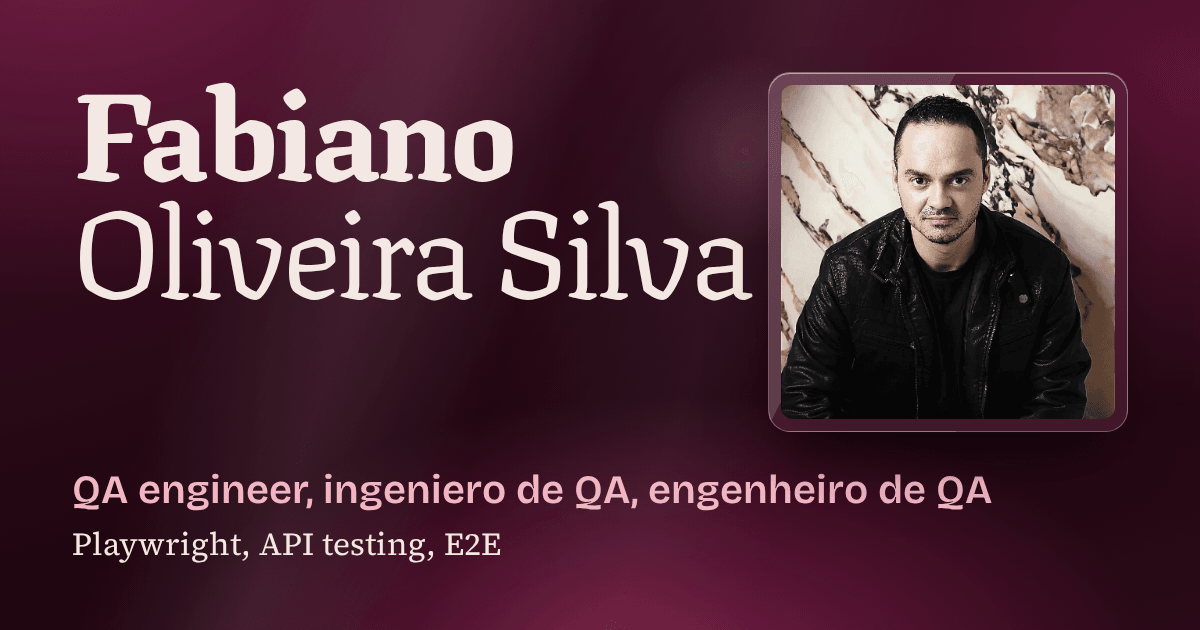
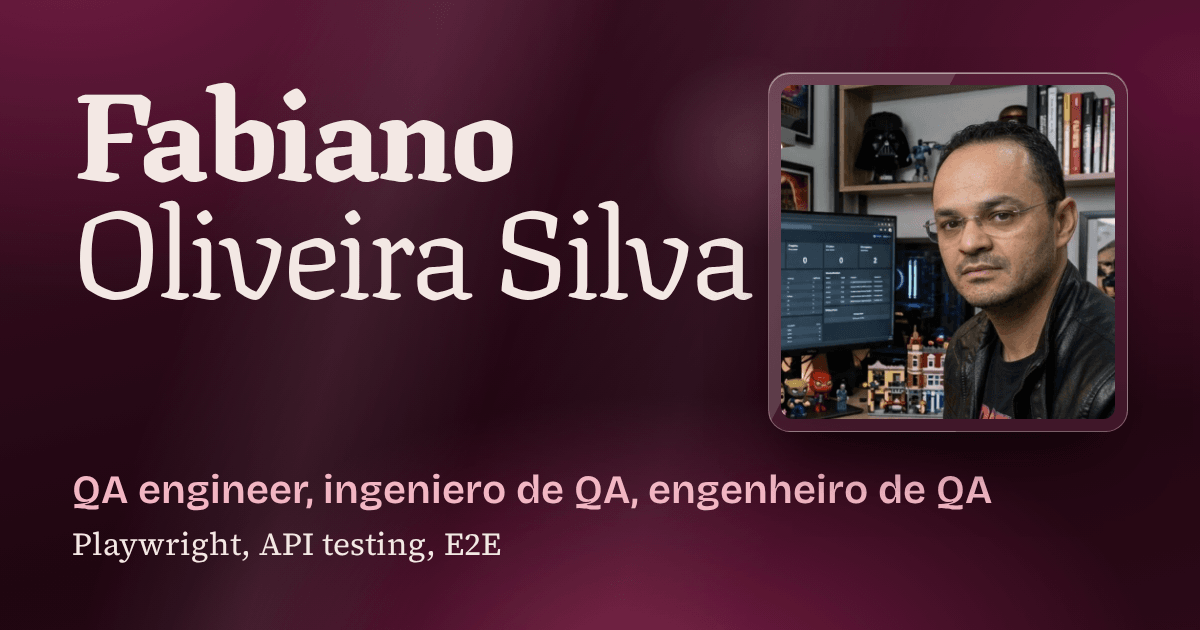
Troca a foto do hero por retrato recortado do setup
Atualiza o texto alternativo em PT, ES e EN e regenera a og.png.

Changed region(s): [[0.6475, 0.1206, 0.9558, 0.6635]]

diff --git a/docs/PENDENCIAS.md b/docs/PENDENCIAS.md
@@ -4,7 +4,7 @@ Nada abaixo foi inventado; cada item espera material ou decisão do Fabiano.
 
 | Item                                       | Situação                                                                                                                                                                                                                              |
 | ------------------------------------------ | ------------------------------------------------------------------------------------------------------------------------------------------------------------------------------------------------------------------------------------- |
-| Foto real                                  | Em uso no hero (retrato 1:1, `assets-originais/foto-fabiano-real.jpg`). A foto antiga, que parecia gerada por IA, não é usada.                                                                                                        |
+| Foto real                                  | Em uso no hero (retrato 1:1, `assets-originais/foto-fabiano-setup.jpg`). A foto antiga, que parecia gerada por IA, não é usada.                                                                                                       |
 | Frase de posicionamento                    | Usada a opção 1 de `docs/DESIGN.md`. Confirmar ou trocar.                                                                                                                                                                             |
 | Texto da Trajetória                        | Parágrafo de abertura escrito a partir do CV (eletricista → diagnóstico → QA). Revisar na sua voz.                                                                                                                                    |
 | MBA em Cibersegurança                      | O CV não diz se está concluído ou em curso; o site só lista o nome.                                                                                                                                                                   |
